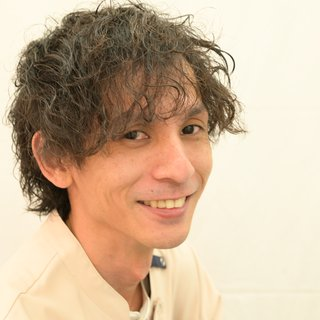
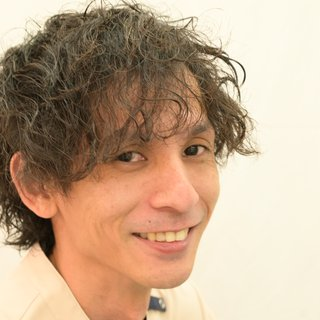
山城の顔写真を中央に切り直し、高橋の顔写真を追加

diff --git a/index.html b/index.html
@@ -593,7 +593,7 @@
           <div class="staff-spec">内科（兼任）</div>
         </div>
         <div class="staff-card reveal">
-          <div class="staff-photo"><div class="img-placeholder" style="width:80px;height:80px;border-radius:50%;"><span class="staff-avatar-initial">医</span></div></div>
+          <div class="staff-photo"><img class="staff-img" src="media/photos/takahashi-keita.jpg" alt="高橋 慶多 フェロー" width="320" height="320" loading="lazy"></div>
           <div class="staff-name">高橋 慶多</div>
           <div class="staff-role">フェロー</div>
           <div class="staff-role-en">Fellow</div>
